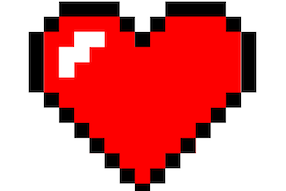
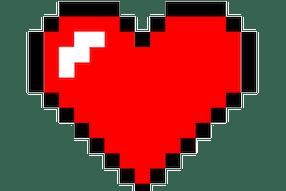
Changed canevas size

diff --git a/src/warcraftTD/World.java b/src/warcraftTD/World.java
@@ -2,9 +2,11 @@ package warcraftTD;
 
 import java.util.List;
 import java.util.LinkedList;
+import java.awt.Font;
 import java.awt.event.MouseEvent;
 import java.util.ArrayList;
 import java.util.Iterator;
+import java.awt.font.*;
 //import 
 @SuppressWarnings("unused")
 public class World {
@@ -19,15 +21,19 @@ public class World {
 	Position spawn;
 
 	// Information sur la taille du plateau de jeu
-	int width;
-	int height;
-	int nbSquareX;
-	int nbSquareY;
-	double squareWidth;
-	double squareHeight;
+	 int width;
+	 int height;
+	 int nbSquareX;
+	 int nbSquareY;
+	 double squareWidth;
+	 double squareHeight;
+
+	
 
 	// Nombre de points de vie du joueur
 	int life = 20;
+	//Le joueur démarre la partie avec 100 pièces d’or dans sa réserve
+	int or = 100;
 
 	// Commande sur laquelle le joueur appuie (sur le clavier)
 	char key;
@@ -62,7 +68,7 @@ public class World {
 	public void drawBackground() {	
 		for (int i = 0; i < nbSquareX; i++)
 			for (int j = 0; j < nbSquareY; j++) 
-				StdDraw.picture(i * squareWidth + squareWidth / 2, j * squareHeight + squareHeight / 2, "images/grass.png", squareWidth, squareHeight);
+				StdDraw.picture(i * squareWidth + squareWidth / 2, j * squareHeight + squareHeight / 2, "images/grass2.jpg", squareWidth, squareHeight);
 		// StdDraw.show();
 	}
 
@@ -98,9 +104,9 @@ public class World {
 
 		}
 		StdDraw.setPenColor(StdDraw.RED);
-		StdDraw.filledRectangle(spawn.x, spawn.y, squareWidth / 2, squareHeight / 2);
+		StdDraw.filledRectangle(spawn.x, spawn.y, squareWidth /2, squareHeight/2);
 		StdDraw.setPenColor(StdDraw.BLUE);
-		StdDraw.filledRectangle(p3.x,p3.y, squareWidth / 2, squareHeight / 2);
+		StdDraw.filledRectangle(p3.x,p3.y, squareWidth/2, squareHeight/2);
 	}
 
 	/**
@@ -110,10 +116,17 @@ public class World {
 		//Pour dessiner les points de vie
 		StdDraw.setPenColor(StdDraw.BOOK_RED);
 		double lifePer = (double)life/100; 
-		StdDraw.picture(0.007, 0.1, "images/heart2.png",squareWidth,squareHeight);
-		StdDraw.filledRectangle(0.02+lifePer, 0.1, lifePer , 0.01);
+		StdDraw.picture(0.02, 0.07, "images/heart2.png",squareWidth,squareHeight);
+		StdDraw.filledRectangle(0.05+lifePer, 0.07, lifePer , 0.01);
 		//TODO UNE BOUCLE QUI DIMINUE LE NB DE POINTS DE VIE
 		//Pour dessiner le nb d'or
+		StdDraw.setPenColor(StdDraw.YELLOW);
+		double orPer = (double)or/100; 
+		StdDraw.picture(0.02, 0.02, "images/or.jpg",squareWidth,squareHeight);
+		//StdDraw.text(0.02+orPer, 0.1, String.valueOf(or));
+		StdDraw.text(0.06, 0.02, String.valueOf(or));
+		StdDraw.show();
+		//TODO UNE BOUCLE QUI DIMINUE LE NB DE POINTS DE VIE
 	}
 
 	/**
@@ -129,22 +142,22 @@ public class World {
 		case 'a' : 
 			// TODO Ajouter une image pour représenter une tour d'archers
 		{
-			StdDraw.picture(normalizedX, normalizedY, "images/ARCHER SIMPLE.jpg",0.06,0.06);
+			StdDraw.picture(normalizedX, normalizedY, "images/ARCHER SIMPLE.jpg",squareWidth,squareHeight); //0.06
 			if(StdDraw.isClicked == true ) {
 				TourArcher t = new TourArcher(new Position(StdDraw.newX,StdDraw.newY));
 				ta.add(t);
-				drawTower('a');
+				drawTower('a',squareWidth,squareHeight);
 			}
 			break;
 		}
 		case 'b' :
 		{
 			// TODO Ajouter une image pour représenter une tour à canon
-			StdDraw.picture(normalizedX, normalizedY, "images/BOMBE SIMPLE.jpg",0.06,0.06);
+			StdDraw.picture(normalizedX, normalizedY, "images/BOMBE SIMPLE.jpg",squareWidth,squareHeight);
 			if(StdDraw.isClicked == true ) {
 				TourBombe t = new TourBombe(new Position(StdDraw.newX,StdDraw.newY));
 				tb.add(t);
-				drawTower('b');
+				drawTower('b',squareWidth,squareHeight);
 			}
 			break;
 		}
@@ -155,13 +168,13 @@ public class World {
 	/*
 	 * ????????????????????????????????????????????????????????????????????????????????????????????????????????????????????
 	 */
-	public static void drawTower(char c) 
+	public static void drawTower(char c, double squareWidth , double squareHeight) 
 	{
 		if(c=='a') 
 		{
 			for(TourArcher t: ta) 
 			{
-				StdDraw.picture(t.getP().x, t.getP().y, "images/ARCHER SIMPLE.jpg",0.06,0.06);
+				StdDraw.picture(t.getP().x, t.getP().y, "images/ARCHER SIMPLE.jpg",squareWidth,squareHeight);
 			}
 			// StdDraw.show(); 
 		}
@@ -169,18 +182,18 @@ public class World {
 		{
 			for(TourBombe t: tb) 
 			{
-				StdDraw.picture(t.getP().x, t.getP().y, "images/BOMBE SIMPLE.jpg",0.06,0.06);
+				StdDraw.picture(t.getP().x, t.getP().y, "images/BOMBE SIMPLE.jpg",squareWidth,squareHeight);
 			}
 		}
 		else 
 		{
 			for(TourArcher t: ta) 
 			{
-				StdDraw.picture(t.getP().x, t.getP().y, "images/ARCHER SIMPLE.jpg" ,0.06,0.06);
+				StdDraw.picture(t.getP().x, t.getP().y, "images/ARCHER SIMPLE.jpg" ,squareWidth,squareHeight);
 			}
 			for(TourBombe t: tb) 
 			{
-				StdDraw.picture(t.getP().x, t.getP().y, "images/BOMBE SIMPLE.jpg",0.06,0.06);
+				StdDraw.picture(t.getP().x, t.getP().y, "images/BOMBE SIMPLE.jpg",squareWidth,squareHeight);
 			}
 		}
 	}
@@ -212,7 +225,7 @@ public class World {
 		updateMonsters();
 		drawMouse();
 		//?????????????????????????????????????,YEEEEES
-		drawTower(' ');
+		drawTower(' ',squareWidth,squareHeight);
 		return life;
 	}
 
@@ -227,19 +240,33 @@ public class World {
 		switch (key) {
 		case 'a':
 			//	System.out.println("Arrow Tower selected (50g).");
+			StdDraw.clear(StdDraw.YELLOW_GREEN);
 			StdDraw.text(StdDraw.mouseX(), StdDraw.mouseY(), "Arrow Tower selected (50g).");
 			StdDraw.show();
 			break;
 		case 'b':
 			//	System.out.println("Bomb Tower selected (60g).");
+			StdDraw.clear(StdDraw.YELLOW_GREEN);
+			StdDraw.text(StdDraw.mouseX(), StdDraw.mouseY(), "Bomb Tower selected (60g).");
+			StdDraw.show();
 			break;
 		case 'e':
 			//	System.out.println("Evolution selected (40g).");
+			StdDraw.clear(StdDraw.YELLOW_GREEN);
+			StdDraw.text(StdDraw.mouseX(), StdDraw.mouseY(), "Evolution selected (40g).");
+			StdDraw.show();
 			break;
 		case 's':
 			//	System.out.println("Starting game!");
+			StdDraw.clear(StdDraw.YELLOW_GREEN);
+			StdDraw.text(0.5, 0.5, "Starting game!");
+			StdDraw.show();
+			break;
 		case 'q':
 			//System.out.println("Exiting.");
+			StdDraw.clear(StdDraw.YELLOW_GREEN);
+			StdDraw.text(0.5, 0.5, "Exiting.");
+			StdDraw.show();
 		}
 	}
 
@@ -279,9 +306,13 @@ public class World {
 		//System.out.println("Click on the grass to build it.");
 		//System.out.println("Press S to start.");
 	}
-	public void menu(char c) 
+	public void menu() 
 	{
-
+		StdDraw.clear(StdDraw.BLACK);
+		StdDraw.setPenColor(StdDraw.RED);
+		StdDraw.setPenRadius(0.03);
+		StdDraw.text(0.5,0.5, "azul");
+		StdDraw.show();
 	}
 
 	/**
@@ -306,4 +337,5 @@ public class World {
 			StdDraw.pause(20);			
 		}
 	}
+
 }

diff --git a/src/warcraftTD/Main.java b/src/warcraftTD/Main.java
@@ -3,12 +3,12 @@ package warcraftTD;
 public class Main {
 
 	public static void main(String[] args) {
-		int width = 1200; //1200
+		int width = 1300; //1200
 		int height = 650; //650
-		int nbSquareX = 55; //11
-		int nbSquareY = 55; //11
-		int startX = 1; //1
-		int startY = 54;	//10	
+		int nbSquareX = 25; //11 //55
+		int nbSquareY = 25; //11  //55
+		int startX = 1; //1  //1
+		int startY = 24;	//10  //54	
 		//StdDraw.setXscale(0, 1);
 		//StdDraw.setYscale(0, 1);
 		World w = new World(width, height, nbSquareX, nbSquareY, startX, startY);
@@ -20,7 +20,7 @@ public class Main {
 		w.monsters.add(monster);
 		// Lancement de la boucle principale du jeu
 		w.run();
-		//w.game();
+	//	w.menu();
 		//w.drawBackground();
 	}
 }
